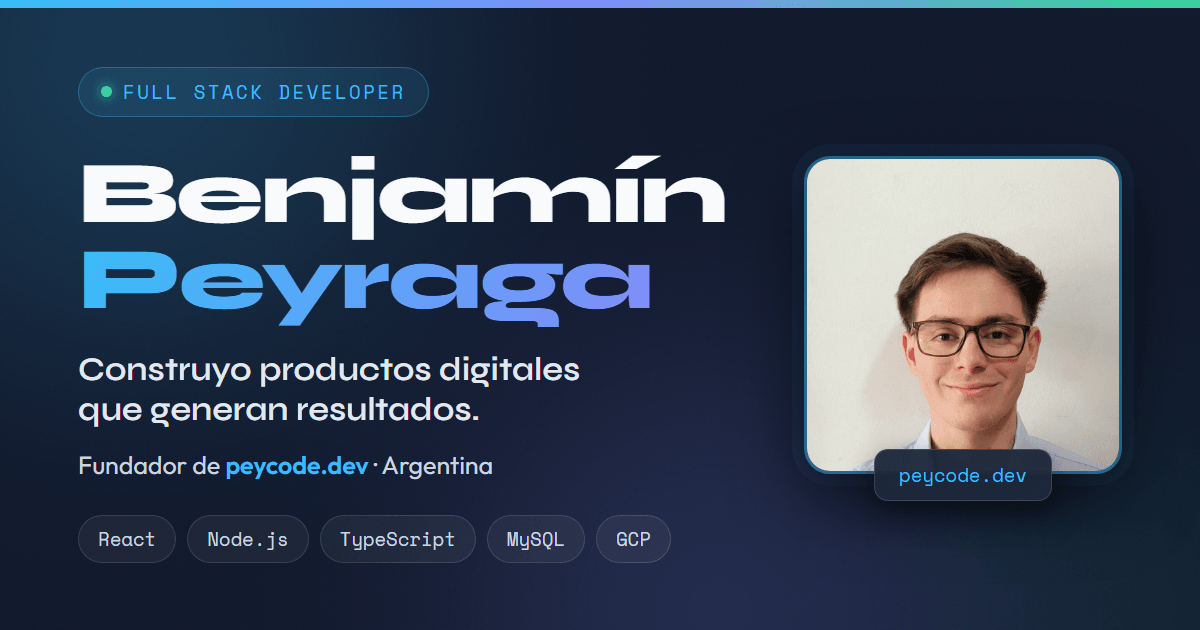
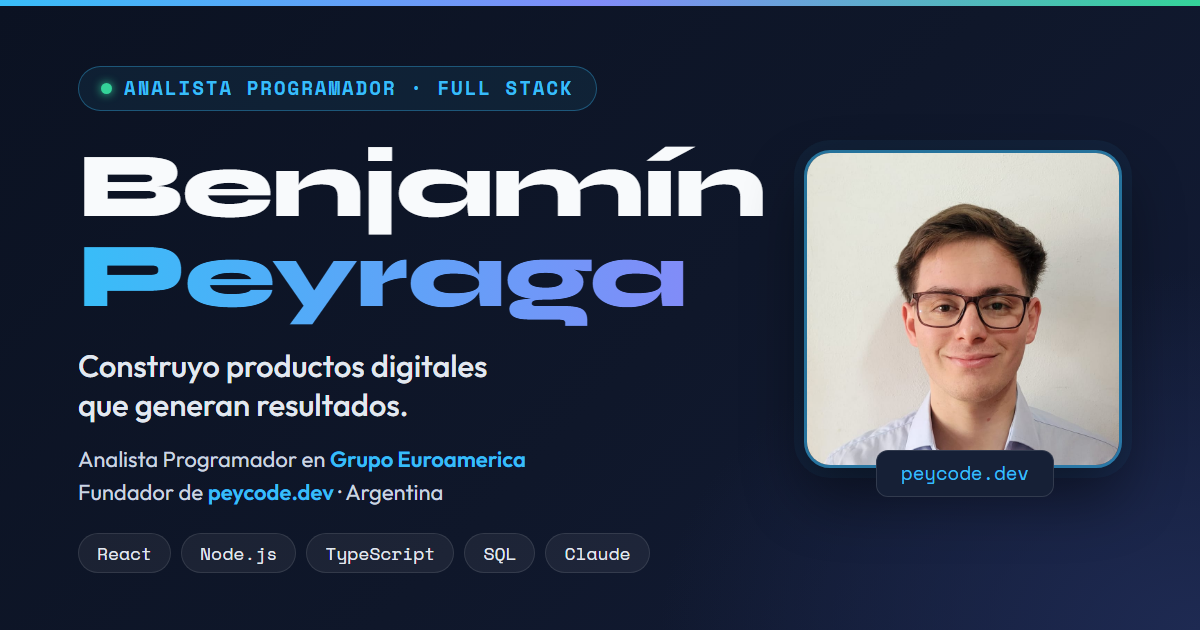
Íconos locales, imágenes livianas, imagen para compartir y títulos al día
- Los íconos de tecnologías se sirven desde img/icons (antes desde CDN @latest).
- Logos de Toyota, Tuculet y UTN y miniaturas de peycode achicados.
- Se borran 19 imágenes sin uso (incluidas capturas viejas de un sistema de cliente).
- og-cover nuevo con el puesto actual; título y descripciones actualizados.

diff --git a/index.html b/index.html
@@ -4,36 +4,36 @@
   <script>if (location.hostname === 'ragepay.github.io') location.replace('https://benjaminpeyraga.vercel.app/' + location.hash);</script>
   <meta charset="UTF-8">
   <meta name="viewport" content="width=device-width, initial-scale=1.0">
-  <meta name="description" content="Benjamín Peyraga, Full Stack Developer en Argentina y fundador de peycode.dev. React, Node.js, MySQL y MongoDB. Mirá mi experiencia, formación y emprendimiento.">
+  <meta name="description" content="Benjamín Peyraga, Analista Programador en Grupo Euroamerica, Full Stack Developer y fundador de peycode.dev. React, Node.js, SQL e integraciones con IA y WhatsApp. Mirá mi experiencia, formación y emprendimiento.">
   <meta name="author" content="Benjamín Peyraga">
   <meta name="theme-color" content="#0f172a">
   <meta name="robots" content="index, follow, max-image-preview:large, max-snippet:-1, max-video-preview:-1">
   <link rel="canonical" href="https://benjaminpeyraga.vercel.app/">
 
-  <title>Benjamín Peyraga — Full Stack Developer | React, Node.js y GCP</title>
+  <title>Benjamín Peyraga — Analista Programador y Full Stack Developer</title>
 
   <!-- Open Graph / LinkedIn / Facebook / WhatsApp -->
   <meta property="og:type" content="profile">
   <meta property="og:site_name" content="Benjamín Peyraga">
   <meta property="og:locale" content="es_AR">
   <meta property="og:url" content="https://benjaminpeyraga.vercel.app/">
-  <meta property="og:title" content="Benjamín Peyraga — Full Stack Developer">
-  <meta property="og:description" content="Full Stack Developer en Argentina y fundador de peycode.dev. React, Node.js, MySQL y MongoDB. Experiencia, formación y emprendimiento.">
-  <meta property="og:image" content="https://benjaminpeyraga.vercel.app/img/og-cover.png">
+  <meta property="og:title" content="Benjamín Peyraga — Analista Programador y Full Stack Developer">
+  <meta property="og:description" content="Analista Programador en Grupo Euroamerica y fundador de peycode.dev. React, Node.js, SQL e integraciones con IA y WhatsApp.">
+  <meta property="og:image" content="https://benjaminpeyraga.vercel.app/img/og-cover.png?v=2">
   <meta property="og:image:width" content="1200">
   <meta property="og:image:height" content="630">
   <meta property="og:image:type" content="image/png">
-  <meta property="og:image:alt" content="Benjamín Peyraga — Full Stack Developer, fundador de peycode.dev">
+  <meta property="og:image:alt" content="Benjamín Peyraga — Analista Programador en Grupo Euroamerica y fundador de peycode.dev">
   <meta property="profile:first_name" content="Benjamín">
   <meta property="profile:last_name" content="Peyraga">
 
   <!-- Twitter -->
   <meta name="twitter:card" content="summary_large_image">
   <meta name="twitter:url" content="https://benjaminpeyraga.vercel.app/">
-  <meta name="twitter:title" content="Benjamín Peyraga — Full Stack Developer">
-  <meta name="twitter:description" content="Full Stack Developer en Argentina y fundador de peycode.dev. React, Node.js, MySQL y MongoDB. Experiencia, formación y emprendimiento.">
-  <meta name="twitter:image" content="https://benjaminpeyraga.vercel.app/img/og-cover.png">
-  <meta name="twitter:image:alt" content="Benjamín Peyraga — Full Stack Developer, fundador de peycode.dev">
+  <meta name="twitter:title" content="Benjamín Peyraga — Analista Programador y Full Stack Developer">
+  <meta name="twitter:description" content="Analista Programador en Grupo Euroamerica y fundador de peycode.dev. React, Node.js, SQL e integraciones con IA y WhatsApp.">
+  <meta name="twitter:image" content="https://benjaminpeyraga.vercel.app/img/og-cover.png?v=2">
+  <meta name="twitter:image:alt" content="Benjamín Peyraga — Analista Programador en Grupo Euroamerica y fundador de peycode.dev">
 
   <link rel="preconnect" href="https://fonts.googleapis.com">
   <link rel="preconnect" href="https://fonts.gstatic.com" crossorigin>
@@ -262,56 +262,56 @@
           <div class="tech-column">
             <h3 class="tech-label">Frontend</h3>
             <div class="tech-grid">
-              <div class="tech-item"><img src="https://cdn.jsdelivr.net/gh/devicons/devicon@latest/icons/react/react-original.svg" alt="React" width="36" height="36" loading="lazy" decoding="async"><span>React</span></div>
-<div class="tech-item"><img src="https://cdn.jsdelivr.net/gh/devicons/devicon@latest/icons/typescript/typescript-original.svg" alt="TypeScript" width="36" height="36" loading="lazy" decoding="async"><span>TypeScript</span></div>
-              <div class="tech-item"><img src="https://cdn.simpleicons.org/nextdotjs/ffffff" alt="Next.js" width="36" height="36" loading="lazy" decoding="async"><span>Next.js</span></div>
-              <div class="tech-item"><img src="https://cdn.jsdelivr.net/gh/devicons/devicon@latest/icons/javascript/javascript-original.svg" alt="JavaScript" width="36" height="36" loading="lazy" decoding="async"><span>JavaScript</span></div>
-              <div class="tech-item"><img src="https://cdn.jsdelivr.net/gh/devicons/devicon@latest/icons/html5/html5-original.svg" alt="HTML5" width="36" height="36" loading="lazy" decoding="async"><span>HTML5</span></div>
-              <div class="tech-item"><img src="https://cdn.jsdelivr.net/gh/devicons/devicon@latest/icons/css3/css3-original.svg" alt="CSS3" width="36" height="36" loading="lazy" decoding="async"><span>CSS3</span></div>
+              <div class="tech-item"><img src="img/icons/react-original.svg" alt="React" width="36" height="36" loading="lazy" decoding="async"><span>React</span></div>
+<div class="tech-item"><img src="img/icons/typescript-original.svg" alt="TypeScript" width="36" height="36" loading="lazy" decoding="async"><span>TypeScript</span></div>
+              <div class="tech-item"><img src="img/icons/si-nextdotjs-ffffff.svg" alt="Next.js" width="36" height="36" loading="lazy" decoding="async"><span>Next.js</span></div>
+              <div class="tech-item"><img src="img/icons/javascript-original.svg" alt="JavaScript" width="36" height="36" loading="lazy" decoding="async"><span>JavaScript</span></div>
+              <div class="tech-item"><img src="img/icons/html5-original.svg" alt="HTML5" width="36" height="36" loading="lazy" decoding="async"><span>HTML5</span></div>
+              <div class="tech-item"><img src="img/icons/css3-original.svg" alt="CSS3" width="36" height="36" loading="lazy" decoding="async"><span>CSS3</span></div>
             </div>
           </div>
           <div class="tech-divider"></div>
           <div class="tech-column">
             <h3 class="tech-label">Backend</h3>
             <div class="tech-grid">
-              <div class="tech-item"><img src="https://cdn.jsdelivr.net/gh/devicons/devicon@latest/icons/nodejs/nodejs-original.svg" alt="Node.js" width="36" height="36" loading="lazy" decoding="async"><span>Node.js</span></div>
-              <div class="tech-item"><img src="https://cdn.jsdelivr.net/gh/devicons/devicon@latest/icons/express/express-original.svg" alt="Express" width="36" height="36" loading="lazy" decoding="async"><span>Express</span></div>
-              <div class="tech-item"><img src="https://cdn.jsdelivr.net/gh/devicons/devicon@latest/icons/mongodb/mongodb-original.svg" alt="MongoDB" width="36" height="36" loading="lazy" decoding="async"><span>MongoDB</span></div>
-              <div class="tech-item"><img src="https://cdn.jsdelivr.net/gh/devicons/devicon@latest/icons/mysql/mysql-original.svg" alt="MySQL" width="36" height="36" loading="lazy" decoding="async"><span>MySQL</span></div>
-              <div class="tech-item"><img src="https://cdn.jsdelivr.net/gh/devicons/devicon@latest/icons/postgresql/postgresql-original.svg" alt="PostgreSQL" width="36" height="36" loading="lazy" decoding="async"><span>PostgreSQL</span></div>
+              <div class="tech-item"><img src="img/icons/nodejs-original.svg" alt="Node.js" width="36" height="36" loading="lazy" decoding="async"><span>Node.js</span></div>
+              <div class="tech-item"><img src="img/icons/express-original.svg" alt="Express" width="36" height="36" loading="lazy" decoding="async"><span>Express</span></div>
+              <div class="tech-item"><img src="img/icons/mongodb-original.svg" alt="MongoDB" width="36" height="36" loading="lazy" decoding="async"><span>MongoDB</span></div>
+              <div class="tech-item"><img src="img/icons/mysql-original.svg" alt="MySQL" width="36" height="36" loading="lazy" decoding="async"><span>MySQL</span></div>
+              <div class="tech-item"><img src="img/icons/postgresql-original.svg" alt="PostgreSQL" width="36" height="36" loading="lazy" decoding="async"><span>PostgreSQL</span></div>
             </div>
           </div>
           <div class="tech-divider"></div>
           <div class="tech-column">
             <h3 class="tech-label">Herramientas</h3>
             <div class="tech-grid">
-              <div class="tech-item"><img src="https://cdn.jsdelivr.net/gh/devicons/devicon@latest/icons/git/git-original.svg" alt="Git" width="36" height="36" loading="lazy" decoding="async"><span>Git</span></div>
-              <div class="tech-item"><img src="https://cdn.jsdelivr.net/gh/devicons/devicon@latest/icons/github/github-original.svg" alt="GitHub" width="36" height="36" loading="lazy" decoding="async"><span>GitHub</span></div>
-              <div class="tech-item"><img src="https://cdn.jsdelivr.net/gh/devicons/devicon@latest/icons/docker/docker-original.svg" alt="Docker" width="36" height="36" loading="lazy" decoding="async"><span>Docker</span></div>
-              <div class="tech-item"><img src="https://cdn.jsdelivr.net/gh/devicons/devicon@latest/icons/trello/trello-original.svg" alt="Trello" width="36" height="36" loading="lazy" decoding="async"><span>Trello</span></div>
-              <div class="tech-item"><img src="https://cdn.jsdelivr.net/gh/devicons/devicon@latest/icons/npm/npm-original-wordmark.svg" alt="NPM" width="36" height="36" loading="lazy" decoding="async"><span>NPM</span></div>
-              <div class="tech-item"><img src="https://cdn.jsdelivr.net/gh/devicons/devicon@latest/icons/googlecloud/googlecloud-original.svg" alt="GCP" width="36" height="36" loading="lazy" decoding="async"><span>GCP</span></div>
+              <div class="tech-item"><img src="img/icons/git-original.svg" alt="Git" width="36" height="36" loading="lazy" decoding="async"><span>Git</span></div>
+              <div class="tech-item"><img src="img/icons/github-original.svg" alt="GitHub" width="36" height="36" loading="lazy" decoding="async"><span>GitHub</span></div>
+              <div class="tech-item"><img src="img/icons/docker-original.svg" alt="Docker" width="36" height="36" loading="lazy" decoding="async"><span>Docker</span></div>
+              <div class="tech-item"><img src="img/icons/trello-original.svg" alt="Trello" width="36" height="36" loading="lazy" decoding="async"><span>Trello</span></div>
+              <div class="tech-item"><img src="img/icons/npm-original-wordmark.svg" alt="NPM" width="36" height="36" loading="lazy" decoding="async"><span>NPM</span></div>
+              <div class="tech-item"><img src="img/icons/googlecloud-original.svg" alt="GCP" width="36" height="36" loading="lazy" decoding="async"><span>GCP</span></div>
             </div>
           </div>
           <div class="tech-divider"></div>
           <div class="tech-column">
             <h3 class="tech-label">Integraciones</h3>
             <div class="tech-grid">
-              <div class="tech-item"><img src="https://cdn.simpleicons.org/whatsapp/25D366" alt="WhatsApp" width="36" height="36" loading="lazy" decoding="async"><span>WhatsApp</span></div>
+              <div class="tech-item"><img src="img/icons/si-whatsapp-25d366.svg" alt="WhatsApp" width="36" height="36" loading="lazy" decoding="async"><span>WhatsApp</span></div>
               <div class="tech-item" title="Por ejemplo, lectura automática de facturas con IA"><svg class="tech-svg" viewBox="0 0 24 24" width="36" height="36" fill="none" stroke="currentColor" stroke-width="1.6" stroke-linecap="round" stroke-linejoin="round" aria-hidden="true"><rect x="5" y="7" width="14" height="12" rx="3"/><path d="M12 7V4M9 4h6"/><circle cx="9.5" cy="12.5" r="1.2" fill="currentColor"/><circle cx="14.5" cy="12.5" r="1.2" fill="currentColor"/><path d="M9.5 16h5M3 12v3M21 12v3"/></svg><span>IA en sistemas</span></div>
               <div class="tech-item" title="Automatización de trámites y consultas en ARCA"><svg class="tech-svg" viewBox="0 0 24 24" width="36" height="36" fill="none" stroke="currentColor" stroke-width="1.6" stroke-linecap="round" stroke-linejoin="round" aria-hidden="true"><path d="M6 3h9l4 4v14l-2.5-1.5L14 21l-2-1.5L10 21l-2.5-1.5L5 21V4a1 1 0 0 1 1-1z"/><path d="M15 3v4h4M8.5 10h7M8.5 13.5h7M8.5 17h4"/></svg><span>ARCA</span></div>
-              <div class="tech-item"><img src="https://cdn.simpleicons.org/googlesheets/34A853" alt="Google Sheets" width="36" height="36" loading="lazy" decoding="async"><span>Google Sheets</span></div>
-              <div class="tech-item"><img src="https://cdn.simpleicons.org/cloudinary/3448C5" alt="Cloudinary" width="36" height="36" loading="lazy" decoding="async"><span>Cloudinary</span></div>
-              <div class="tech-item"><img src="https://cdn.simpleicons.org/resend/ffffff" alt="Resend" width="36" height="36" loading="lazy" decoding="async"><span>Emails (Resend)</span></div>
+              <div class="tech-item"><img src="img/icons/si-googlesheets-34a853.svg" alt="Google Sheets" width="36" height="36" loading="lazy" decoding="async"><span>Google Sheets</span></div>
+              <div class="tech-item"><img src="img/icons/si-cloudinary-3448c5.svg" alt="Cloudinary" width="36" height="36" loading="lazy" decoding="async"><span>Cloudinary</span></div>
+              <div class="tech-item"><img src="img/icons/si-resend-ffffff.svg" alt="Resend" width="36" height="36" loading="lazy" decoding="async"><span>Emails (Resend)</span></div>
             </div>
           </div>
           <div class="tech-divider"></div>
           <div class="tech-column">
             <h3 class="tech-label">IA / Vibecoding</h3>
             <div class="tech-grid">
-              <div class="tech-item tech-item--main" title="La IA que más uso"><span class="tech-main-badge">Principal</span><img src="https://cdn.simpleicons.org/claude/D97757" alt="Claude" width="36" height="36" loading="lazy" decoding="async"><span>Claude</span></div>
-              <div class="tech-item"><img src="https://cdn.simpleicons.org/googlegemini/ffffff" alt="Gemini" width="36" height="36" loading="lazy" decoding="async"><span>Gemini</span></div>
-              <div class="tech-item"><img src="https://cdn.jsdelivr.net/npm/simple-icons@latest/icons/openai.svg" alt="ChatGPT" style="filter:invert(1)" width="36" height="36" loading="lazy" decoding="async"><span>ChatGPT</span></div>
+              <div class="tech-item tech-item--main" title="La IA que más uso"><span class="tech-main-badge">Principal</span><img src="img/icons/si-claude-d97757.svg" alt="Claude" width="36" height="36" loading="lazy" decoding="async"><span>Claude</span></div>
+              <div class="tech-item"><img src="img/icons/si-googlegemini-ffffff.svg" alt="Gemini" width="36" height="36" loading="lazy" decoding="async"><span>Gemini</span></div>
+              <div class="tech-item"><img src="img/icons/si-openai.svg" alt="ChatGPT" style="filter:invert(1)" width="36" height="36" loading="lazy" decoding="async"><span>ChatGPT</span></div>
             </div>
           </div>
         </div>
@@ -527,7 +527,7 @@
               <span class="timeline-badge timeline-badge--tech">Tech</span>
             </div>
             <div class="timeline-company">
-              <img src="img/logoestudiotuculet.png" alt="Estudio Contable Tuculet" class="company-logo" width="641" height="643" loading="lazy" decoding="async">
+              <img src="img/logoestudiotuculet.png" alt="Estudio Contable Tuculet" class="company-logo" width="200" height="201" loading="lazy" decoding="async">
               <div>
                 <h3 class="company-name">Estudio Contable Tuculet</h3>
                 <p class="company-role">Desarrollador / IT</p>
@@ -601,7 +601,7 @@
               <span class="timeline-badge timeline-badge--industry">Industria</span>
             </div>
             <div class="timeline-company">
-              <img src="img/toyota.jpg" alt="Toyota Argentina" class="company-logo" width="1574" height="1376" loading="lazy" decoding="async">
+              <img src="img/toyota.jpg" alt="Toyota Argentina" class="company-logo" width="200" height="175" loading="lazy" decoding="async">
               <div>
                 <h3 class="company-name">Toyota Argentina S.A.</h3>
                 <p class="company-role">Operador de Producción</p>
@@ -633,7 +633,7 @@
 
         <div class="edu-card reveal">
           <div class="edu-card-header">
-            <img src="img/utn.jpg" alt="UTN" class="edu-logo" width="750" height="480" loading="lazy" decoding="async">
+            <img src="img/utn.jpg" alt="UTN" class="edu-logo" width="300" height="192" loading="lazy" decoding="async">
             <div>
               <h3 class="edu-title"><a href="https://www.frd.utn.edu.ar/programacion/" target="_blank" rel="noopener" class="edu-title-link">Tecnicatura Universitaria en Programación</a></h3>
               <p class="edu-institution">Universidad Tecnológica Nacional (UTN)</p>
